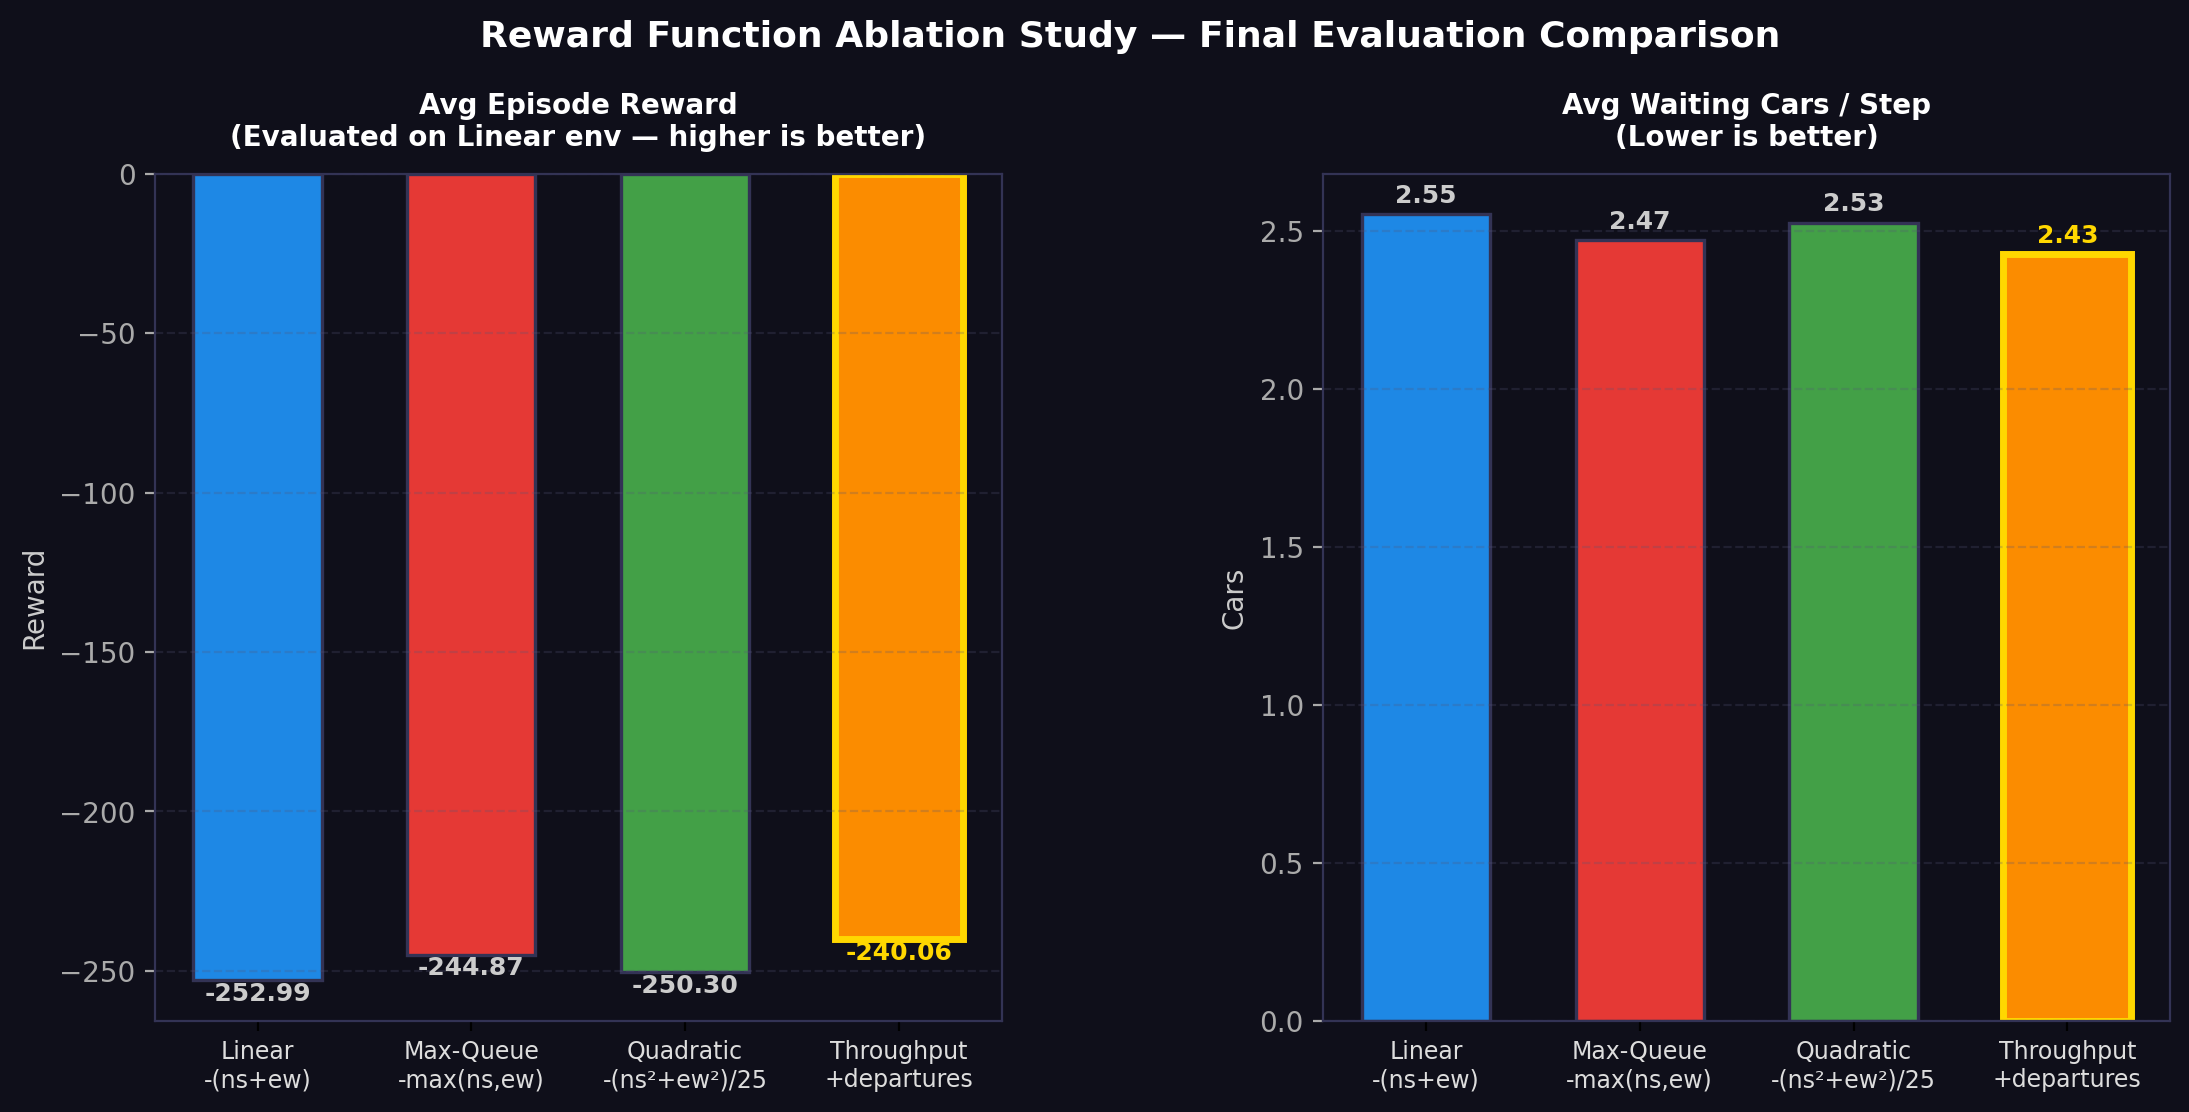
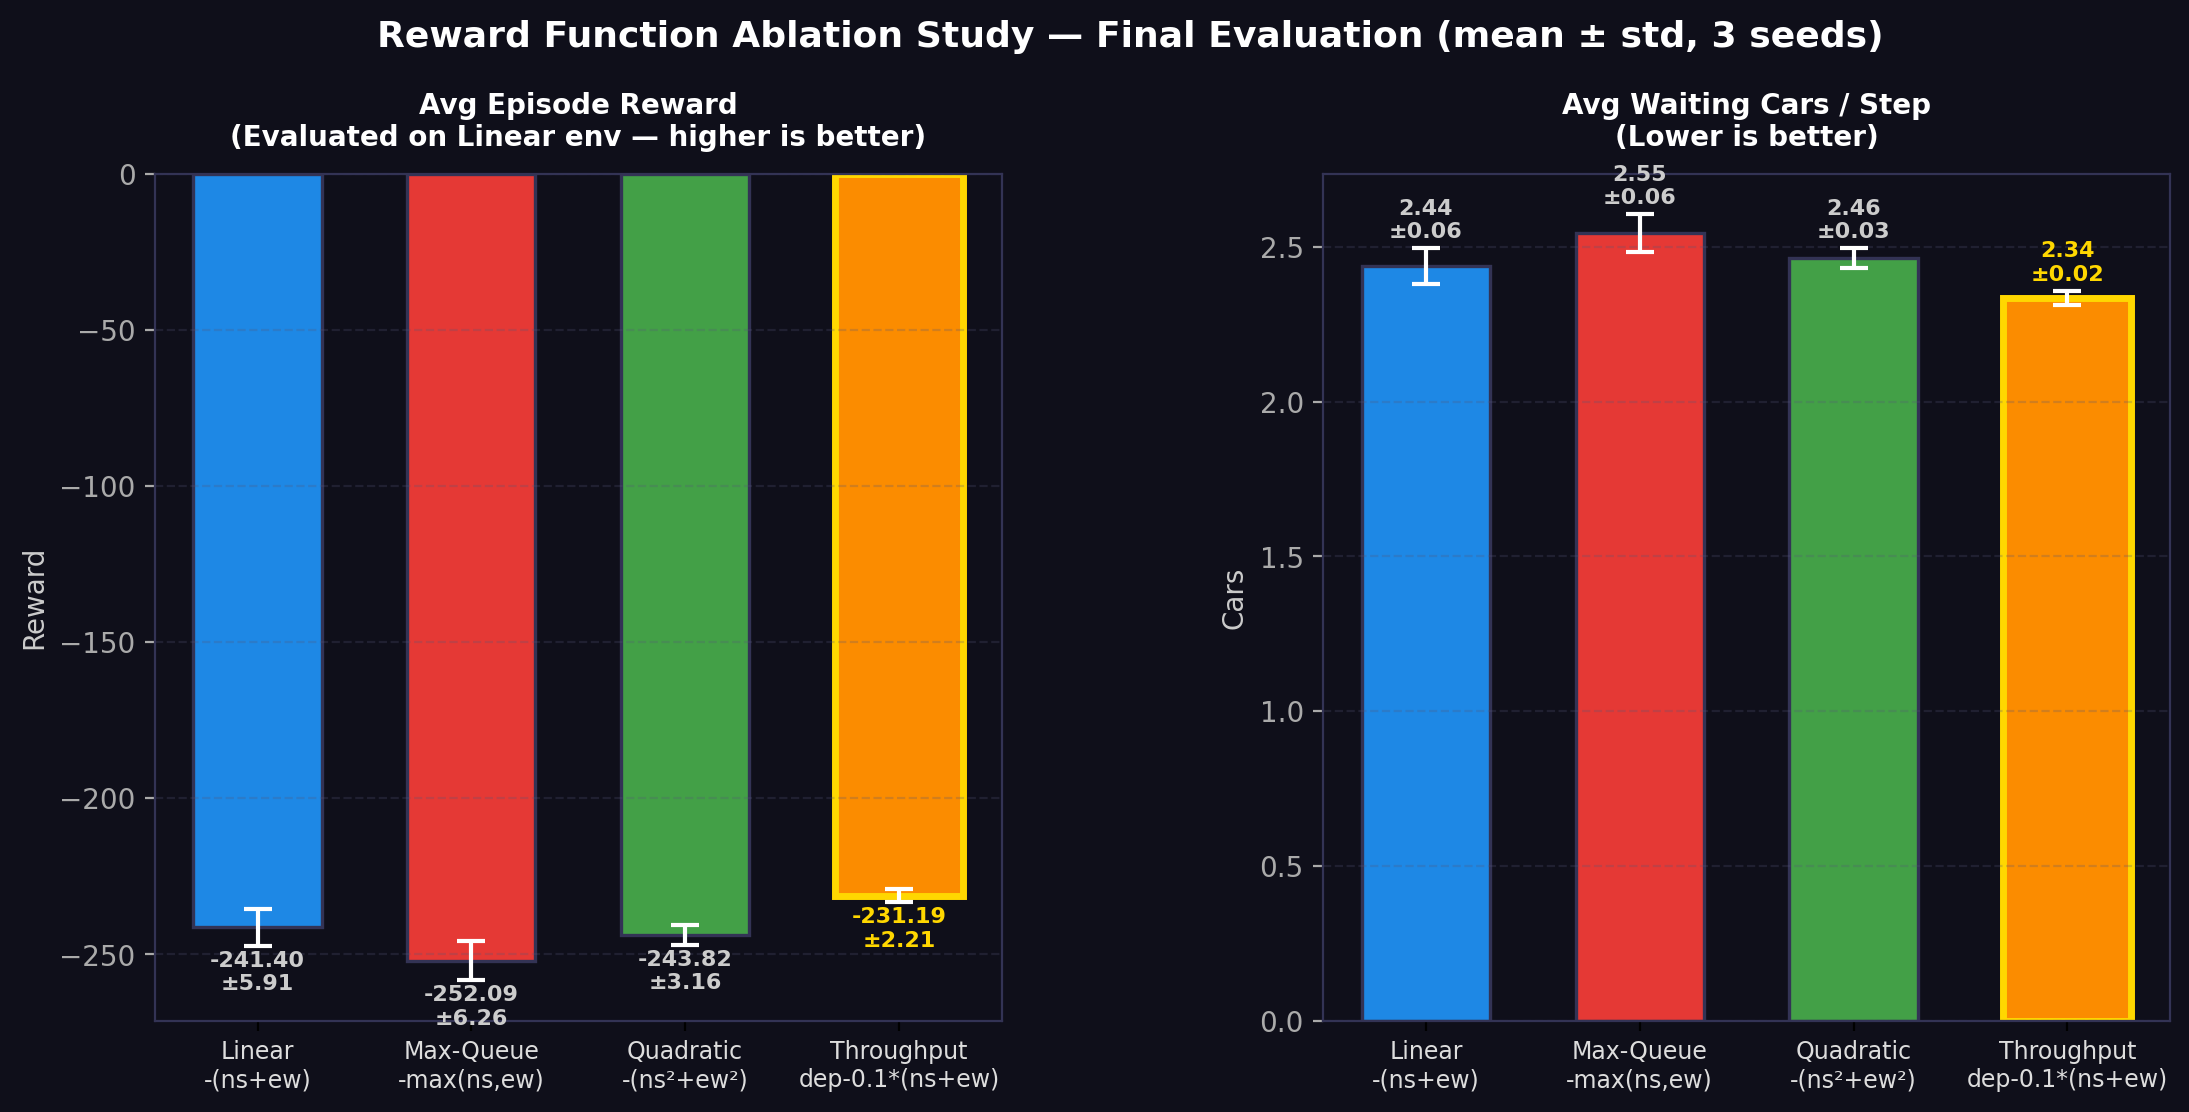
fixes for reward ablation

diff --git a/reward_ablation.py b/reward_ablation.py
@@ -3,16 +3,18 @@ Reward Function Ablation Study
 ================================
 Trains a Q-Learning agent under 4 different reward function formulations and
 evaluates each using a common, objective metric (average waiting cars/step).
+Each mode is run over 5 independent random seeds; results are reported as
+mean ± standard deviation for statistical reliability.
 
 Reward Modes:
-  - "linear"     : R = -(ns + ew)               (default baseline)
-  - "max_queue"  : R = -max(ns, ew)              (penalize worst bottleneck)
-  - "quadratic"  : R = -(ns² + ew²) / 25        (heavier penalty for large queues)
-  - "throughput" : R = departures_ns + departures_ew  (reward actual throughput)
+  - "linear"     : R = -(ns + ew)                         (default baseline)
+  - "max_queue"  : R = -max(ns, ew)                        (penalize worst bottleneck)
+  - "quadratic"  : R = -(ns² + ew²)                        (strong penalty for large queues)
+  - "throughput" : R = (departures) - 0.1*(ns+ew)          (reward throughput, lightly penalize queues)
 
 Outputs:
-  - reward_ablation_learning.png   : Learning curves for all 4 modes
-  - reward_ablation_comparison.png : Bar charts of final evaluation metrics
+  - reward_ablation_learning.png   : Learning curves (mean ± std band) for all 4 modes
+  - reward_ablation_comparison.png : Bar charts with error bars for final evaluation metrics
 """
 
 import random
@@ -22,20 +24,16 @@ import matplotlib.gridspec as gridspec
 from environment import TrafficEnv
 from agent import QLearningAgent
 
-# ─── Reproducibility ─────────────────────────────────────────────────────────
-SEED = 42
-random.seed(SEED)
-np.random.seed(SEED)
-
 # ─── Config ──────────────────────────────────────────────────────────────────
 REWARD_MODES = {
-    "Linear\n-(ns+ew)":         "linear",
-    "Max-Queue\n-max(ns,ew)":   "max_queue",
-    "Quadratic\n-(ns²+ew²)/25": "quadratic",
-    "Throughput\n+departures":  "throughput",
+    "Linear\n-(ns+ew)":             "linear",
+    "Max-Queue\n-max(ns,ew)":       "max_queue",
+    "Quadratic\n-(ns²+ew²)":        "quadratic",
+    "Throughput\ndep-0.1*(ns+ew)":  "throughput",
 }
-TRAIN_EPISODES   = 800
-EVAL_EPISODES    = 100
+SEEDS            = [42, 123, 777, 999, 2024]   # 5 independent seeds for statistical validity
+TRAIN_EPISODES   = 1200
+EVAL_EPISODES    = 500
 ALPHA            = 0.1
 GAMMA            = 0.9
 INITIAL_EPSILON  = 1.0
@@ -103,26 +101,45 @@ def evaluate(agent: QLearningAgent) -> tuple:
 
 # ─── Main ────────────────────────────────────────────────────────────────────
 def run_ablation():
-    all_rewards   = {}   # label -> list of episode rewards (training)
-    eval_results  = {}   # label -> (avg_reward, avg_cars)
+    # label -> list of (avg_reward, avg_cars) tuples across seeds
+    seed_eval:    dict[str, list] = {label: [] for label in REWARD_MODES}
+    # label -> (n_episodes, n_seeds) reward matrix for learning curves
+    seed_rewards: dict[str, list] = {label: [] for label in REWARD_MODES}
 
-    for label, mode in REWARD_MODES.items():
-        short = label.split("\n")[0]
-        print(f"Training with reward_mode='{mode}' ({short})...")
+    for seed in SEEDS:
+        print(f"\n{'='*60}")
+        print(f"  Seed {seed}")
+        print(f"{'='*60}")
 
-        # Fresh environment and agent for each mode
-        env   = TrafficEnv(max_queue=5, max_steps=100, reward_mode=mode)
-        agent = QLearningAgent(max_queue=5)
+        random.seed(seed)
+        np.random.seed(seed)
 
-        rewards = train(env, agent)
-        all_rewards[label] = rewards
+        for label, mode in REWARD_MODES.items():
+            short = label.split("\n")[0]
+            print(f"  Training reward_mode='{mode}' ({short})...", end=" ", flush=True)
 
-        avg_reward, avg_cars = evaluate(agent)
-        eval_results[label] = (avg_reward, avg_cars)
+            env   = TrafficEnv(max_queue=5, max_steps=100, reward_mode=mode)
+            agent = QLearningAgent(max_queue=5)
 
-        print(f"  → Eval avg reward: {avg_reward:.2f} | Avg waiting cars/step: {avg_cars:.3f}")
+            rewards = train(env, agent)
+            seed_rewards[label].append(rewards)
 
-    _plot_learning_curves(all_rewards)
+            avg_reward, avg_cars = evaluate(agent)
+            seed_eval[label].append((avg_reward, avg_cars))
+
+            print(f"reward={avg_reward:.2f}  cars/step={avg_cars:.3f}")
+
+    # Aggregate across seeds
+    eval_results = {}   # label -> (mean_reward, std_reward, mean_cars, std_cars)
+    for label in REWARD_MODES:
+        rewards_list = [r for r, _ in seed_eval[label]]
+        cars_list    = [c for _, c in seed_eval[label]]
+        eval_results[label] = (
+            np.mean(rewards_list), np.std(rewards_list),
+            np.mean(cars_list),    np.std(cars_list),
+        )
+
+    _plot_learning_curves(seed_rewards)
     _plot_comparison(eval_results)
     _print_table(eval_results)
 
@@ -132,25 +149,27 @@ def _moving_average(data: list, window: int) -> np.ndarray:
     return np.convolve(data, np.ones(window) / window, mode="valid")
 
 
-def _plot_learning_curves(all_rewards: dict):
+def _plot_learning_curves(seed_rewards: dict):
+    """Plot mean learning curve ± std band across seeds for each reward mode."""
     fig, ax = plt.subplots(figsize=(11, 5.5))
     fig.patch.set_facecolor("#0f0f1a")
     ax.set_facecolor("#0f0f1a")
 
-    for (label, rewards), color in zip(all_rewards.items(), PALETTE):
-        ax.plot(rewards, alpha=0.12, color=color, linewidth=0.8)
-        ma = _moving_average(rewards, MOVING_AVG_WIN)
-        ax.plot(
-            np.arange(MOVING_AVG_WIN - 1, len(rewards)),
-            ma,
-            color=color,
-            linewidth=2.2,
-            label=label.replace("\n", " — "),
-        )
+    for (label, runs), color in zip(seed_rewards.items(), PALETTE):
+        # Stack into (n_seeds, n_episodes) and smooth each run
+        smoothed = np.array([_moving_average(r, MOVING_AVG_WIN) for r in runs])
+        mean_curve = smoothed.mean(axis=0)
+        std_curve  = smoothed.std(axis=0)
+        x = np.arange(MOVING_AVG_WIN - 1, TRAIN_EPISODES)
+
+        ax.fill_between(x, mean_curve - std_curve, mean_curve + std_curve,
+                        alpha=0.18, color=color)
+        ax.plot(x, mean_curve, color=color, linewidth=2.2,
+                label=label.replace("\n", " — "))
 
     ax.set_title(
-        "Reward Function Ablation — Training Convergence",
-        fontsize=14, fontweight="bold", color="white", pad=14
+        "Reward Function Ablation — Training Convergence (mean ± std, 3 seeds)",
+        fontsize=13, fontweight="bold", color="white", pad=14
     )
     ax.set_xlabel("Episode", fontsize=11, color="#cccccc")
     ax.set_ylabel("Total Episode Reward (training scale)", fontsize=11, color="#cccccc")
@@ -158,10 +177,8 @@ def _plot_learning_curves(all_rewards: dict):
     for spine in ax.spines.values():
         spine.set_edgecolor("#333355")
 
-    legend = ax.legend(
-        fontsize=9, frameon=True, loc="lower right",
-        facecolor="#1a1a2e", edgecolor="#555577", labelcolor="white"
-    )
+    ax.legend(fontsize=9, frameon=True, loc="lower right",
+              facecolor="#1a1a2e", edgecolor="#555577", labelcolor="white")
     ax.grid(True, linestyle="--", alpha=0.25, color="#555577")
     plt.tight_layout()
     plt.savefig("reward_ablation_learning.png", dpi=200, facecolor=fig.get_facecolor())
@@ -170,37 +187,38 @@ def _plot_learning_curves(all_rewards: dict):
 
 
 def _plot_comparison(eval_results: dict):
-    labels   = list(eval_results.keys())
-    rewards  = [eval_results[l][0] for l in labels]
-    avg_cars = [eval_results[l][1] for l in labels]
+    """Bar charts with error bars for reward and waiting cars."""
+    labels     = list(eval_results.keys())
+    mean_r     = [eval_results[l][0] for l in labels]
+    std_r      = [eval_results[l][1] for l in labels]
+    mean_cars  = [eval_results[l][2] for l in labels]
+    std_cars   = [eval_results[l][3] for l in labels]
 
     fig = plt.figure(figsize=(13, 5.5))
     fig.patch.set_facecolor("#0f0f1a")
-    gs = gridspec.GridSpec(1, 2, figure=fig, wspace=0.38)
+    gs  = gridspec.GridSpec(1, 2, figure=fig, wspace=0.38)
     ax1 = fig.add_subplot(gs[0])
     ax2 = fig.add_subplot(gs[1])
 
-    short_labels = [l.replace("\n", "\n") for l in labels]
-
-    for ax, values, title, ylabel, higher_better in [
-        (ax1, rewards,  "Avg Episode Reward\n(Evaluated on Linear env — higher is better)",
-         "Reward", True),
-        (ax2, avg_cars, "Avg Waiting Cars / Step\n(Lower is better)",
-         "Cars", False),
+    for ax, means, stds, title, ylabel, higher_better in [
+        (ax1, mean_r,    std_r,
+         "Avg Episode Reward\n(Evaluated on Linear env — higher is better)", "Reward", True),
+        (ax2, mean_cars, std_cars,
+         "Avg Waiting Cars / Step\n(Lower is better)", "Cars", False),
     ]:
         ax.set_facecolor("#0f0f1a")
-        bars = ax.bar(
-            range(len(labels)), values, color=PALETTE,
-            edgecolor="#333355", linewidth=1.2, width=0.6
-        )
+        bars = ax.bar(range(len(labels)), means, color=PALETTE,
+                      edgecolor="#333355", linewidth=1.2, width=0.6)
+        ax.errorbar(range(len(labels)), means, yerr=stds,
+                    fmt="none", color="white", capsize=5, linewidth=1.5, capthick=1.5)
 
-        # Highlight the best bar
-        best_idx = int(np.argmax(values) if higher_better else np.argmin(values))
+        # Highlight best bar
+        best_idx = int(np.argmax(means) if higher_better else np.argmin(means))
         bars[best_idx].set_edgecolor("#ffd700")
         bars[best_idx].set_linewidth(2.5)
 
         ax.set_xticks(range(len(labels)))
-        ax.set_xticklabels(short_labels, fontsize=8.5, color="#dddddd")
+        ax.set_xticklabels(labels, fontsize=8.5, color="#dddddd")
         ax.set_title(title, fontsize=10, fontweight="bold", color="white", pad=10)
         ax.set_ylabel(ylabel, fontsize=10, color="#cccccc")
         ax.tick_params(axis="y", colors="#aaaaaa")
@@ -208,38 +226,33 @@ def _plot_comparison(eval_results: dict):
         for spine in ax.spines.values():
             spine.set_edgecolor("#333355")
 
-        for i, (bar, val) in enumerate(zip(bars, values)):
-            ypos = bar.get_height()
-            offset = -0.5 if higher_better else 0.02
-            ax.text(
-                bar.get_x() + bar.get_width() / 2,
-                ypos + offset,
-                f"{val:.2f}",
-                ha="center", va="bottom" if not higher_better else "top",
-                fontsize=9, fontweight="bold",
-                color="#ffd700" if i == best_idx else "#cccccc"
-            )
+        for i, (bar, val, std) in enumerate(zip(bars, means, stds)):
+            ypos   = bar.get_height()
+            offset = -(abs(std) + 1.5) if higher_better else (abs(std) + 0.02)
+            ax.text(bar.get_x() + bar.get_width() / 2, ypos + offset,
+                    f"{val:.2f}\n±{std:.2f}",
+                    ha="center", va="bottom" if not higher_better else "top",
+                    fontsize=8, fontweight="bold",
+                    color="#ffd700" if i == best_idx else "#cccccc")
 
     fig.suptitle(
-        "Reward Function Ablation Study — Final Evaluation Comparison",
+        "Reward Function Ablation Study — Final Evaluation (mean ± std, 3 seeds)",
         fontsize=13, fontweight="bold", color="white", y=1.02
     )
-    plt.savefig(
-        "reward_ablation_comparison.png", dpi=200,
-        facecolor=fig.get_facecolor(), bbox_inches="tight"
-    )
+    plt.savefig("reward_ablation_comparison.png", dpi=200,
+                facecolor=fig.get_facecolor(), bbox_inches="tight")
     plt.close()
     print("Saved 'reward_ablation_comparison.png'.")
 
 
 def _print_table(eval_results: dict):
-    print("\n" + "=" * 70)
-    print(f"{'Reward Mode':<30} {'Avg Episode Reward':>20} {'Avg Cars/Step':>16}")
-    print("=" * 70)
-    for label, (avg_reward, avg_cars) in eval_results.items():
+    print("\n" + "=" * 80)
+    print(f"{'Reward Mode':<30} {'Mean Reward':>14} {'±Std':>8} {'Mean Cars/Step':>16} {'±Std':>8}")
+    print("=" * 80)
+    for label, (mr, sr, mc, sc) in eval_results.items():
         short = label.replace("\n", " ")
-        print(f"{short:<30} {avg_reward:>20.2f} {avg_cars:>16.3f}")
-    print("=" * 70)
+        print(f"{short:<30} {mr:>14.2f} {sr:>8.2f} {mc:>16.3f} {sc:>8.3f}")
+    print("=" * 80)
 
 
 if __name__ == "__main__":

diff --git a/environment.py b/environment.py
@@ -130,10 +130,14 @@ class TrafficEnv:
         elif self.reward_mode == "max_queue":
             reward = float(-max(self.ns_queue, self.ew_queue))
         elif self.reward_mode == "quadratic":
-            # Normalized by max_queue² so values are comparable to linear scale
-            reward = float(-(self.ns_queue ** 2 + self.ew_queue ** 2) / (self.max_queue ** 2))
+            # No normalization: gives a strong signal that heavily penalizes large queues.
+            # Range: 0 to -(max_queue² + max_queue²) = 0 to -50
+            reward = float(-(self.ns_queue ** 2 + self.ew_queue ** 2))
         elif self.reward_mode == "throughput":
-            reward = float(departures_ns + departures_ew)
+            # Hybrid: reward cars that actually pass, but still lightly penalize
+            # queue buildup to avoid starvation. Keeps the reward in a negative-dominant
+            # range consistent with the other modes.
+            reward = float((departures_ns + departures_ew) - 0.1 * (self.ns_queue + self.ew_queue))
         else:
             reward = float(-(self.ns_queue + self.ew_queue))  # fallback
         